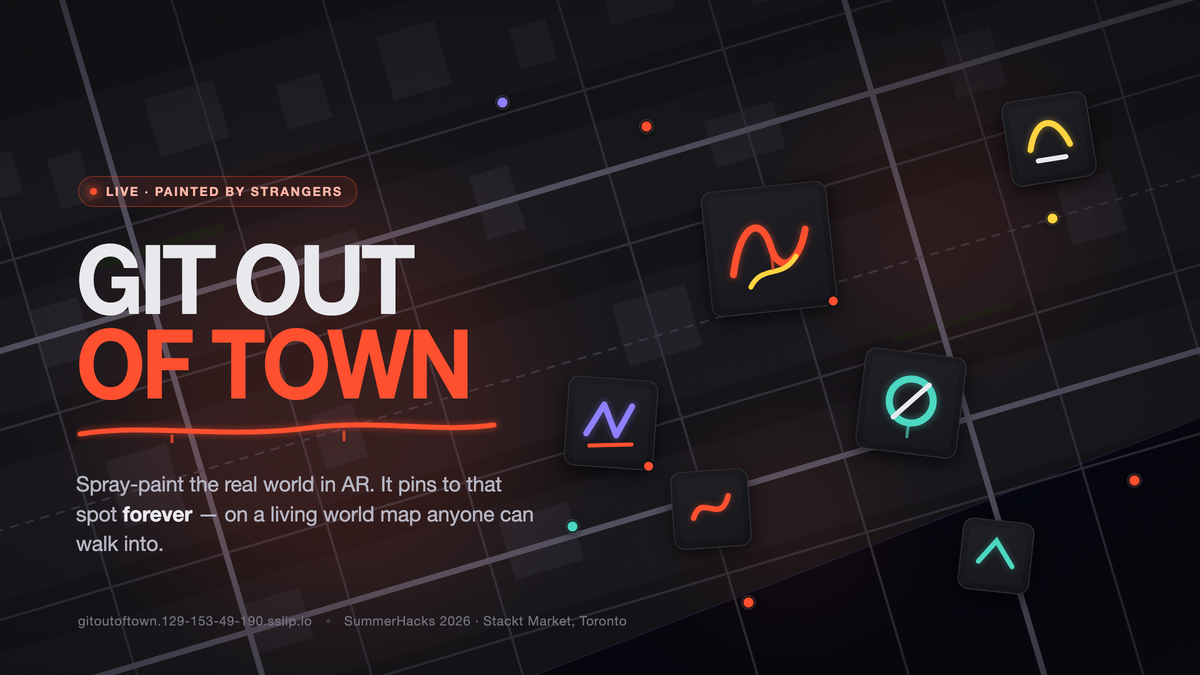
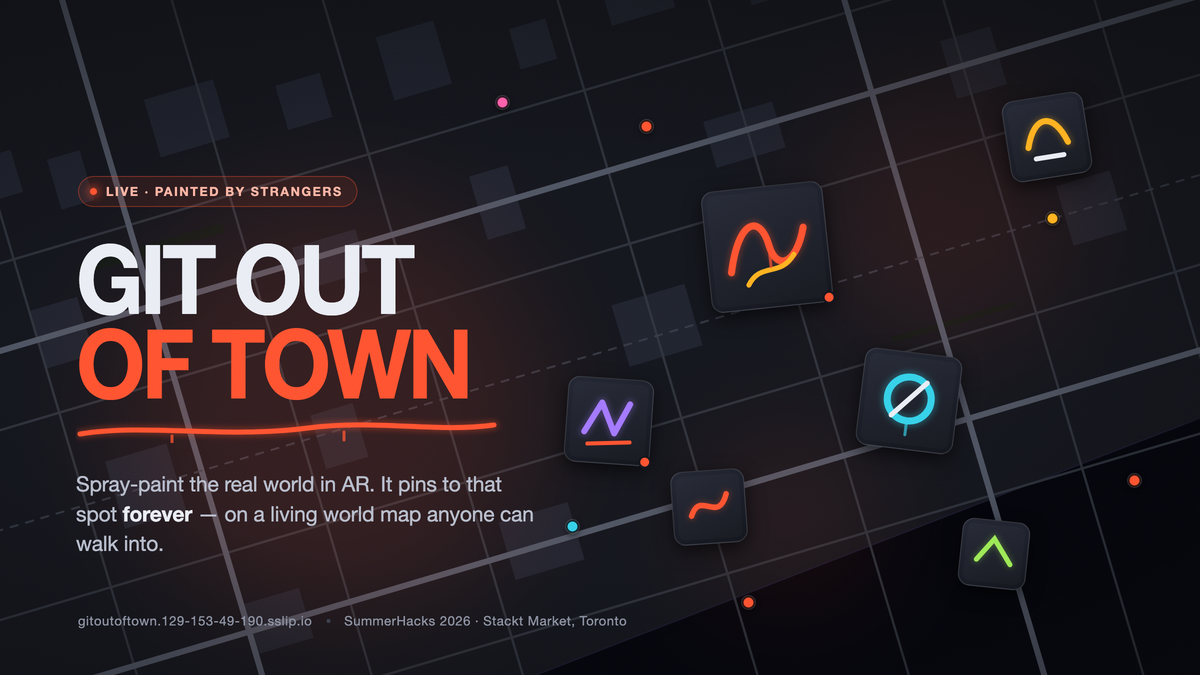
docs: re-render the cover against the reworked palette
The palette moved under it — the neutral ramp went blue-shifted and the accent
went #ff4d2e -> #ff5230 — so the cover no longer matched the app it fronts.

Every colour in cover.html is now a token from lib/theme.ts, and the six
scribbles use the real SPRAY pigments rather than the ad-hoc ones I picked
before that scale existed. Marker geometry matches .got-marker as it stands.

diff --git a/docs/assets/brand/cover.html b/docs/assets/brand/cover.html
@@ -2,13 +2,13 @@
 <meta charset="utf-8">
 <style>
   * { margin: 0; padding: 0; box-sizing: border-box; }
-  html, body { background: #0b0b0d; }
+  html, body { background: #0a0b0f; }
   body { width: 1200px; height: 675px; overflow: hidden; }
   .frame { position: relative; width: 1200px; height: 675px; overflow: hidden;
            font-family: "Helvetica Neue", Helvetica, Arial, sans-serif; }
   svg.map { position: absolute; inset: 0; }
 
-  .glow { position: absolute; border-radius: 999px; filter: blur(60px); background: #ff4d2e; }
+  .glow { position: absolute; border-radius: 999px; filter: blur(60px); background: #ff5230; }
   .g1 { width: 420px; height: 420px; left: 120px;  top: 200px; opacity: .13; }
   .g2 { width: 260px; height: 260px; left: 820px;  top: 80px;  opacity: .10; }
   .g3 { width: 180px; height: 180px; left: 700px;  top: 430px; opacity: .09; }
@@ -17,12 +17,12 @@
          background: radial-gradient(120% 90% at 42% 55%, rgba(11,11,13,0) 32%, rgba(11,11,13,.82) 100%); }
 
   /* framed markers — same language as .got-marker in globals.css */
-  .marker { position: absolute; padding: 6px; border: 1px solid rgba(255,255,255,.10);
-            border-radius: 11px; background: linear-gradient(160deg,#1b1b21,#121216);
+  .marker { position: absolute; padding: 4px; border: 1px solid rgba(255,255,255,.12);
+            border-radius: 12px; background: linear-gradient(160deg,#232733,#14161d);
             box-shadow: 0 6px 18px rgba(0,0,0,.6); line-height: 0; }
   .marker svg { display: block; border-radius: 7px; background: rgba(255,255,255,.02); }
   .marker.scene::after { content:""; position:absolute; right:-3px; bottom:-3px; width:9px; height:9px;
-            border:2px solid #121216; border-radius:999px; background:#ff4d2e; }
+            border:2px solid #14161d; border-radius:999px; background:#ff5230; }
 
   .pin { position: absolute; width: 13px; height: 13px; border-radius: 999px;
          border: 1.5px solid rgba(11,11,13,.85);
@@ -30,22 +30,22 @@
 
   .lockup { position: absolute; left: 76px; top: 236px; }
   .word { font-size: 96px; line-height: .88; font-weight: 800; letter-spacing: -.045em;
-          color: #e8e8ec; transform: scaleX(.93); transform-origin: left; }
-  .word .out { color: #ff4d2e; }
-  .tag { margin-top: 26px; font-size: 21px; line-height: 1.42; color: #b4b4c2;
+          color: #e9ecf4; transform: scaleX(.93); transform-origin: left; }
+  .word .out { color: #ff5230; }
+  .tag { margin-top: 26px; font-size: 21px; line-height: 1.42; color: #b6bccb;
          letter-spacing: -.008em; max-width: 470px; }
-  .tag b { color: #e8e8ec; font-weight: 600; }
+  .tag b { color: #e9ecf4; font-weight: 600; }
 
   .chip { position: absolute; left: 78px; top: 176px; display: flex; align-items: center; gap: 9px;
-          padding: 7px 14px 7px 11px; border: 1px solid rgba(255,77,46,.34); border-radius: 999px;
-          background: rgba(255,77,46,.09); color: #ffb3a4;
+          padding: 7px 14px 7px 11px; border: 1px solid rgba(255,82,48,.34); border-radius: 999px;
+          background: rgba(255,82,48,.09); color: #ffb4a3;
           font-size: 12.5px; letter-spacing: .13em; text-transform: uppercase; font-weight: 600; }
-  .dot { width: 7px; height: 7px; border-radius: 999px; background: #ff4d2e;
-         box-shadow: 0 0 9px 2px rgba(255,77,46,.6); }
+  .dot { width: 7px; height: 7px; border-radius: 999px; background: #ff5230;
+         box-shadow: 0 0 9px 2px rgba(255,82,48,.6); }
 
   .foot { position: absolute; left: 78px; bottom: 46px; display: flex; align-items: center; gap: 14px;
-          font-size: 13px; color: #6f6f7c; letter-spacing: .04em; }
-  .foot .sep { width: 4px; height: 4px; border-radius: 999px; background: #3a3a48; }
+          font-size: 13px; color: #8a90a0; letter-spacing: .04em; }
+  .foot .sep { width: 4px; height: 4px; border-radius: 999px; background: #3a3f4c; }
 
   .grain { position: absolute; inset: 0; opacity: .16; mix-blend-mode: overlay; }
 </style>
@@ -53,24 +53,24 @@
 <div class="frame">
   <!-- basemap: hand-drawn street grid on the Toronto angle -->
   <svg class="map" width="1200" height="675" viewBox="0 0 1200 675">
-    <rect width="1200" height="675" fill="#0b0b0d"/>
+    <rect width="1200" height="675" fill="#0a0b0f"/>
     <g transform="rotate(-16.5 600 337)">
-      <rect x="-260" y="-260" width="1720" height="1200" fill="#131317"/>
+      <rect x="-260" y="-260" width="1720" height="1200" fill="#15171e"/>
       <!-- water -->
-      <path d="M-260 700 L1460 560 L1460 940 L-260 940 Z" fill="#05060e"/>
+      <path d="M-260 700 L1460 560 L1460 940 L-260 940 Z" fill="#05060d"/>
       <path d="M-260 700 L1460 560" stroke="#1a1a2c" stroke-width="1.5" fill="none"/>
       <!-- parks -->
-      <rect x="120" y="120" width="150" height="104" fill="#131c15"/>
-      <rect x="880" y="330" width="126" height="96" fill="#131c15"/>
+      <rect x="120" y="120" width="150" height="104" fill="#121a17"/>
+      <rect x="880" y="330" width="126" height="96" fill="#121a17"/>
       <!-- blocks -->
-      <g fill="#17171c">
+      <g fill="#15171e">
         <rect x="-200" y="-40" width="1620" height="120"/>
         <rect x="-200" y="130" width="1620" height="112"/>
         <rect x="-200" y="292" width="1620" height="128"/>
         <rect x="-200" y="470" width="1620" height="116"/>
       </g>
       <!-- buildings -->
-      <g fill="#22222a" opacity=".85">
+      <g fill="#232733" opacity=".85">
         <rect x="30" y="-10" width="58" height="44"/><rect x="120" y="10" width="34" height="52"/>
         <rect x="230" y="-20" width="72" height="60"/><rect x="360" y="4" width="46" height="46"/>
         <rect x="470" y="-14" width="60" height="66"/><rect x="600" y="16" width="38" height="42"/>
@@ -84,7 +84,7 @@
         <rect x="180" y="492" width="60" height="52"/><rect x="450" y="486" width="72" height="60"/>
       </g>
       <!-- minor streets -->
-      <g stroke="#30303a" stroke-width="2.4" opacity=".9">
+      <g stroke="#31363f" stroke-width="2.4" opacity=".9">
         <line x1="-260" y1="96"  x2="1460" y2="96"/>
         <line x1="-260" y1="256" x2="1460" y2="256"/>
         <line x1="-260" y1="438" x2="1460" y2="438"/>
@@ -98,14 +98,14 @@
         <line x1="1170" y1="-260" x2="1170" y2="940"/>
       </g>
       <!-- arterials -->
-      <g stroke="#4d4d5c" stroke-width="6" stroke-linecap="round">
+      <g stroke="#4e5462" stroke-width="6" stroke-linecap="round">
         <line x1="-260" y1="180" x2="1460" y2="180"/>
         <line x1="-260" y1="520" x2="1460" y2="520"/>
         <line x1="180"  y1="-260" x2="180"  y2="940"/>
         <line x1="930"  y1="-260" x2="930"  y2="940"/>
       </g>
       <!-- rail -->
-      <g stroke="#3a3a48" stroke-width="2" stroke-dasharray="9 7" opacity=".8">
+      <g stroke="#3a3f4c" stroke-width="2" stroke-dasharray="9 7" opacity=".8">
         <line x1="-260" y1="352" x2="1460" y2="352"/>
       </g>
     </g>
@@ -118,23 +118,23 @@
   <div class="vig"></div>
 
   <!-- scattered pins -->
-  <div class="pin" style="left:640px; top:120px;  background:#ff4d2e;"></div>
-  <div class="pin" style="left:566px; top:520px;  background:#4ad6c0;"></div>
-  <div class="pin" style="left:1046px;top:212px;  background:#ffd23f;"></div>
-  <div class="pin" style="left:742px; top:596px;  background:#ff4d2e;"></div>
-  <div class="pin" style="left:496px; top:96px;   background:#8b7bff;"></div>
-  <div class="pin" style="left:1128px;top:474px;  background:#ff4d2e;"></div>
+  <div class="pin" style="left:640px; top:120px;  background:#ff5230;"></div>
+  <div class="pin" style="left:566px; top:520px;  background:#35d0e8;"></div>
+  <div class="pin" style="left:1046px;top:212px;  background:#ffb021;"></div>
+  <div class="pin" style="left:742px; top:596px;  background:#ff5230;"></div>
+  <div class="pin" style="left:496px; top:96px;   background:#ff5fa8;"></div>
+  <div class="pin" style="left:1128px;top:474px;  background:#ff5230;"></div>
 
   <!-- framed pieces -->
   <div class="marker scene" style="left:706px; top:186px; transform:rotate(-6deg);">
     <svg width="112" height="112" viewBox="0 0 112 112">
       <g fill="none" stroke-linecap="round" stroke-linejoin="round">
         <path d="M18 78 C30 26, 52 22, 58 54 C63 82, 84 76, 94 40"
-              stroke="#ff4d2e" stroke-width="11" opacity=".28" filter="blur(3px)"/>
+              stroke="#ff5230" stroke-width="11" opacity=".28" filter="blur(3px)"/>
         <path d="M18 78 C30 26, 52 22, 58 54 C63 82, 84 76, 94 40"
-              stroke="#ff4d2e" stroke-width="7"/>
-        <path d="M34 92 C48 70, 66 88, 82 66" stroke="#ffd23f" stroke-width="5"/>
-        <path d="M58 54 l0 22" stroke="#ff4d2e" stroke-width="3" opacity=".7"/>
+              stroke="#ff5230" stroke-width="7"/>
+        <path d="M34 92 C48 70, 66 88, 82 66" stroke="#ffb021" stroke-width="5"/>
+        <path d="M58 54 l0 22" stroke="#ff5230" stroke-width="3" opacity=".7"/>
       </g>
     </svg>
   </div>
@@ -142,10 +142,10 @@
   <div class="marker" style="left:860px; top:352px; transform:rotate(7deg);">
     <svg width="88" height="88" viewBox="0 0 88 88">
       <g fill="none" stroke-linecap="round">
-        <circle cx="44" cy="42" r="22" stroke="#4ad6c0" stroke-width="12" opacity=".26" filter="blur(3px)"/>
-        <circle cx="44" cy="42" r="22" stroke="#4ad6c0" stroke-width="7"/>
-        <path d="M28 60 L60 24" stroke="#e8e8ec" stroke-width="5"/>
-        <path d="M44 64 l0 14" stroke="#4ad6c0" stroke-width="3" opacity=".65"/>
+        <circle cx="44" cy="42" r="22" stroke="#35d0e8" stroke-width="12" opacity=".26" filter="blur(3px)"/>
+        <circle cx="44" cy="42" r="22" stroke="#35d0e8" stroke-width="7"/>
+        <path d="M28 60 L60 24" stroke="#e9ecf4" stroke-width="5"/>
+        <path d="M44 64 l0 14" stroke="#35d0e8" stroke-width="3" opacity=".65"/>
       </g>
     </svg>
   </div>
@@ -153,9 +153,9 @@
   <div class="marker scene" style="left:566px; top:378px; transform:rotate(4deg);">
     <svg width="76" height="76" viewBox="0 0 76 76">
       <g fill="none" stroke-linecap="round" stroke-linejoin="round">
-        <path d="M14 50 L30 20 L44 50 L58 20" stroke="#8b7bff" stroke-width="10" opacity=".26" filter="blur(3px)"/>
-        <path d="M14 50 L30 20 L44 50 L58 20" stroke="#8b7bff" stroke-width="6"/>
-        <path d="M18 62 L60 58" stroke="#ff4d2e" stroke-width="4"/>
+        <path d="M14 50 L30 20 L44 50 L58 20" stroke="#a277ff" stroke-width="10" opacity=".26" filter="blur(3px)"/>
+        <path d="M14 50 L30 20 L44 50 L58 20" stroke="#a277ff" stroke-width="6"/>
+        <path d="M18 62 L60 58" stroke="#ff5230" stroke-width="4"/>
       </g>
     </svg>
   </div>
@@ -163,9 +163,9 @@
   <div class="marker" style="left:1006px; top:96px; transform:rotate(-9deg);">
     <svg width="72" height="72" viewBox="0 0 72 72">
       <g fill="none" stroke-linecap="round">
-        <path d="M16 44 C26 12, 46 12, 56 44" stroke="#ffd23f" stroke-width="9" opacity=".26" filter="blur(3px)"/>
-        <path d="M16 44 C26 12, 46 12, 56 44" stroke="#ffd23f" stroke-width="6"/>
-        <path d="M22 56 L50 56" stroke="#e8e8ec" stroke-width="5"/>
+        <path d="M16 44 C26 12, 46 12, 56 44" stroke="#ffb021" stroke-width="9" opacity=".26" filter="blur(3px)"/>
+        <path d="M16 44 C26 12, 46 12, 56 44" stroke="#ffb021" stroke-width="6"/>
+        <path d="M22 56 L50 56" stroke="#e9ecf4" stroke-width="5"/>
       </g>
     </svg>
   </div>
@@ -173,8 +173,8 @@
   <div class="marker" style="left:672px; top:470px; transform:rotate(-4deg);">
     <svg width="64" height="64" viewBox="0 0 64 64">
       <g fill="none" stroke-linecap="round">
-        <path d="M14 40 C24 14, 40 50, 50 20" stroke="#ff4d2e" stroke-width="8" opacity=".26" filter="blur(3px)"/>
-        <path d="M14 40 C24 14, 40 50, 50 20" stroke="#ff4d2e" stroke-width="5.5"/>
+        <path d="M14 40 C24 14, 40 50, 50 20" stroke="#ff5230" stroke-width="8" opacity=".26" filter="blur(3px)"/>
+        <path d="M14 40 C24 14, 40 50, 50 20" stroke="#ff5230" stroke-width="5.5"/>
       </g>
     </svg>
   </div>
@@ -182,8 +182,8 @@
   <div class="marker" style="left:960px; top:520px; transform:rotate(6deg);">
     <svg width="58" height="58" viewBox="0 0 58 58">
       <g fill="none" stroke-linecap="round">
-        <path d="M12 36 L28 14 L46 38" stroke="#4ad6c0" stroke-width="7" opacity=".26" filter="blur(3px)"/>
-        <path d="M12 36 L28 14 L46 38" stroke="#4ad6c0" stroke-width="5"/>
+        <path d="M12 36 L28 14 L46 38" stroke="#9be855" stroke-width="7" opacity=".26" filter="blur(3px)"/>
+        <path d="M12 36 L28 14 L46 38" stroke="#9be855" stroke-width="5"/>
       </g>
     </svg>
   </div>
@@ -195,10 +195,10 @@
     <!-- hand-drawn tag stroke under the wordmark -->
     <svg width="430" height="26" viewBox="0 0 430 26" style="margin-top:12px; display:block;">
       <path d="M4 17 C70 6, 150 22, 232 11 C300 2, 360 16, 418 8"
-            fill="none" stroke="#ff4d2e" stroke-width="9" stroke-linecap="round" opacity=".3" filter="blur(3px)"/>
+            fill="none" stroke="#ff5230" stroke-width="9" stroke-linecap="round" opacity=".3" filter="blur(3px)"/>
       <path d="M4 17 C70 6, 150 22, 232 11 C300 2, 360 16, 418 8"
-            fill="none" stroke="#ff4d2e" stroke-width="5" stroke-linecap="round"/>
-      <path d="M96 19 l0 6 M268 15 l0 8" stroke="#ff4d2e" stroke-width="3" stroke-linecap="round" opacity=".75"/>
+            fill="none" stroke="#ff5230" stroke-width="5" stroke-linecap="round"/>
+      <path d="M96 19 l0 6 M268 15 l0 8" stroke="#ff5230" stroke-width="3" stroke-linecap="round" opacity=".75"/>
     </svg>
     <div class="tag">Spray-paint the real world in AR. It pins to that spot
       <b>forever</b> — on a living world map anyone can walk into.</div>
